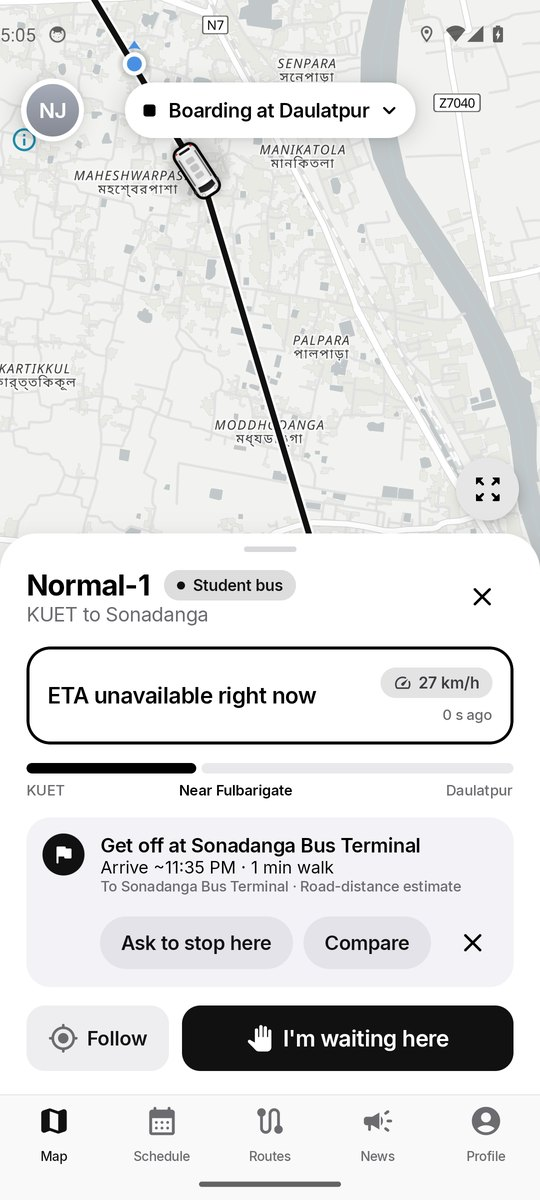
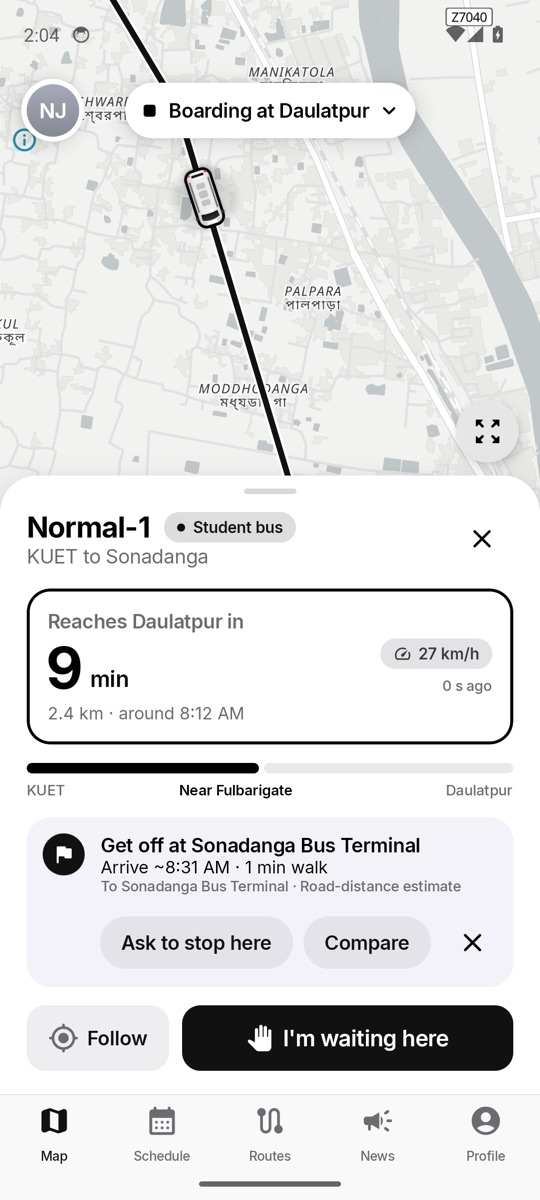
Refresh every screenshot in light and dark mode, and add the widget and My trips
Taken by the screenshot tour on the current build: the Schedule shows a
pinned trip, Profile shows Delete Account, the trip card shows an ETA
even without the routing server, and the home screen widget is new.

diff --git a/README.md b/README.md
@@ -51,9 +51,13 @@ These are taken automatically by the [screenshot tour](#continuous-integration) 
 | :-: | :-: | :-: | :-: |
 | <img src="docs/screenshots/01-sign-in.jpg" width="200"> | <img src="docs/screenshots/02-live-map.jpg" width="200"> | <img src="docs/screenshots/03-bus-selected.jpg" width="200"> | <img src="docs/screenshots/04-best-place-to-get-off.jpg" width="200"> |
 
-| Timetable | Routes | Profile | Driver |
+| Timetable and My trips | Routes | Profile | Driver |
 | :-: | :-: | :-: | :-: |
 | <img src="docs/screenshots/06-schedule.jpg" width="200"> | <img src="docs/screenshots/07-routes.jpg" width="200"> | <img src="docs/screenshots/09-profile.jpg" width="200"> | <img src="docs/screenshots/10-driver-home.jpg" width="200"> |
+
+| Home screen widget | Widget, dark |
+| :-: | :-: |
+| <img src="docs/screenshots/15-widget.png" width="200"> | <img src="docs/screenshots/dark-15-widget.png" width="200"> |
 
 ### Dark mode
 
@@ -74,13 +78,17 @@ Every picture, in both modes, is in [`docs/screenshots`](docs/screenshots).
 | Feature | In one line |
 | --- | --- |
 | 🗺 Live map | Every running bus you may ride, drawn as a bus seen from above that glides between GPS fixes and turns with the road. |
-| ⏱ ETA to your stop | Minutes and distance to the stop you picked, over real roads, refreshed as the bus moves. |
+| ⏱ ETA to your stop | Minutes and distance to the stop you picked, over real roads, refreshed as the bus moves. If the routing server is down, an estimate along the route instead. |
 | 📍 Where to? | Search any stop or place, and the app tells you the best stop to get off at and how long the walk is. |
 | ⚖ Compare | Every bus that can take you there today, fastest first. |
 | ✋ I'm waiting here | Tell the driver you are waiting. They see you on the road ahead with a tone and a buzz. |
 | 🛑 Ask to stop | Ask the driver to stop at the place that is best for you. |
 | 🔔 Arrival alert | A notification when your bus is about 5 minutes from your stop. |
 | 📅 Official timetable | All KUET trips (Sunday to Thursday and Saturday), with your next bus at the top. |
+| 📌 My trips | Pin the buses you usually take with the days, get a reminder before each, or add them to the calendar. Pins follow you to the iOS app. |
+| 📱 Home screen widget | The next bus you can take, in the same black-and-white look as the iOS widget, with the KUET bus mark. |
+| 📨 Departure pushes | "Normal-2 just left campus" for the route with your stop (teachers' buses only reach teachers). |
+| 🗑 Delete account | Removes your profile, pins, places, complaints and login, from Profile. |
 | 🎓 Bus allocation | Students see only *Normal* (student) buses. Teachers can ride any bus. |
 | 👥 Crowd reports | Riders on the bus can say it is full, and everyone sees it. |
 | 🪪 KUET ID check | Roll number or employee ID, KUET email, an email link, and admin approval for teachers and drivers. |
